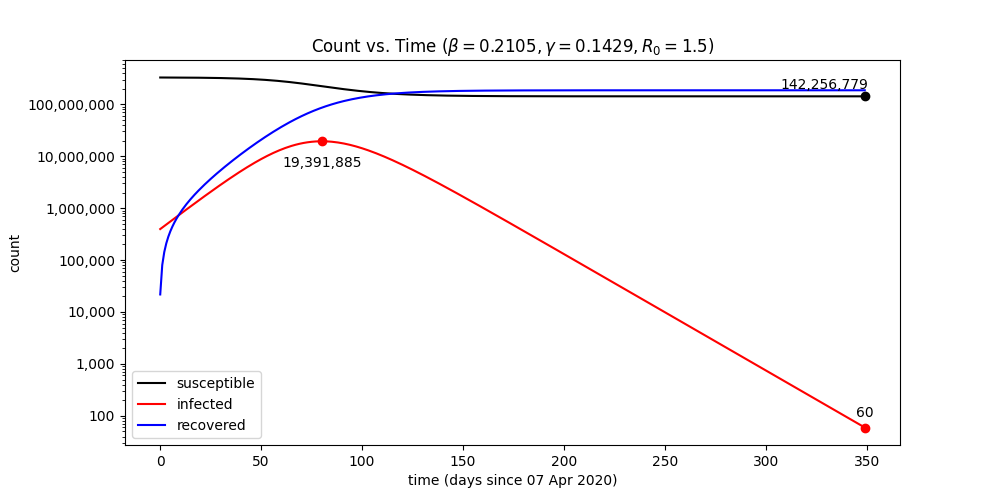
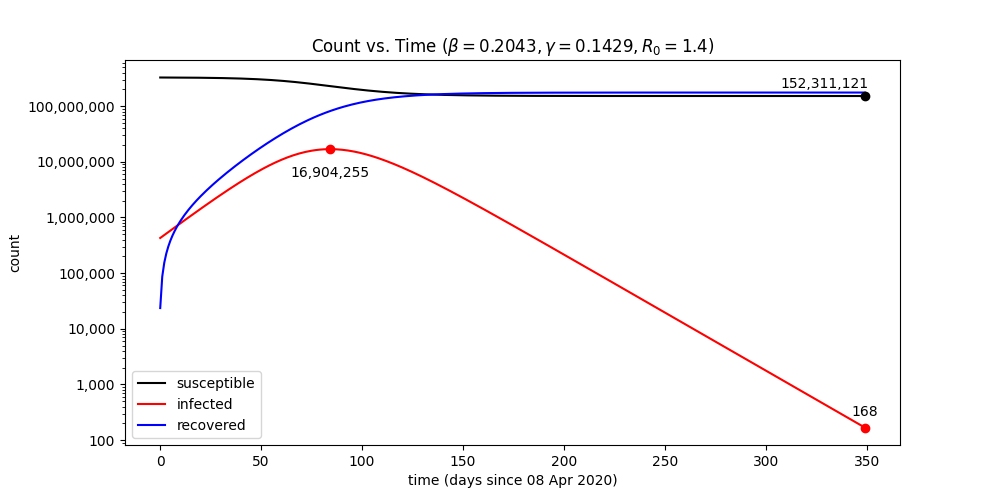
Update start date to 2020-04-08

diff --git a/model.py b/model.py
@@ -121,7 +121,7 @@ def solver(func, population, initial, observed_infected, recovery_rate, start_da
 
     ax = plt.gca()
     ax.get_yaxis().set_major_formatter(plt.FuncFormatter(lambda x, loc: "{:,}".format(int(x))))
-    plt.savefig('fit.png')
+    plt.savefig('images/fit.png')
     plt.show()
     plt.close()
 
@@ -170,7 +170,7 @@ def project(population, initial, days, infection_rate, recovery_rate, start_date
     ))
 
     ax.get_yaxis().set_major_formatter(plt.FuncFormatter(lambda x, loc: "{:,}".format(int(x))))
-    plt.savefig('projection.png')
+    plt.savefig('images/projection.png')
     plt.show()
     plt.close()
 
